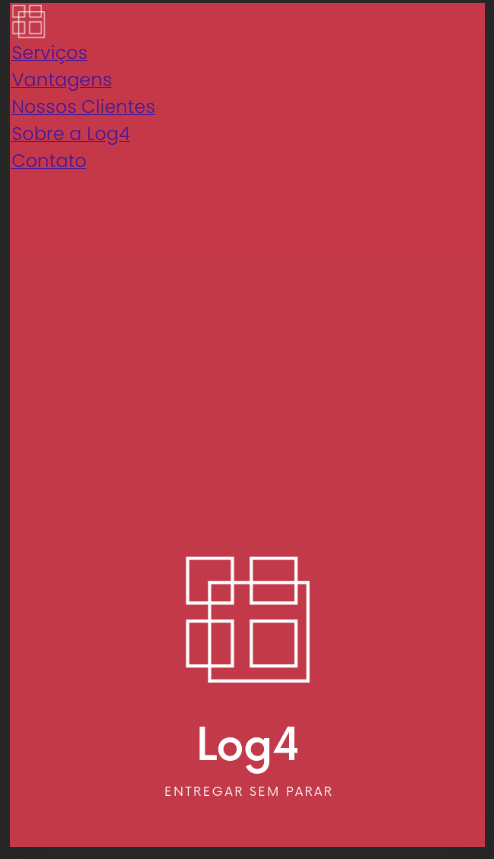
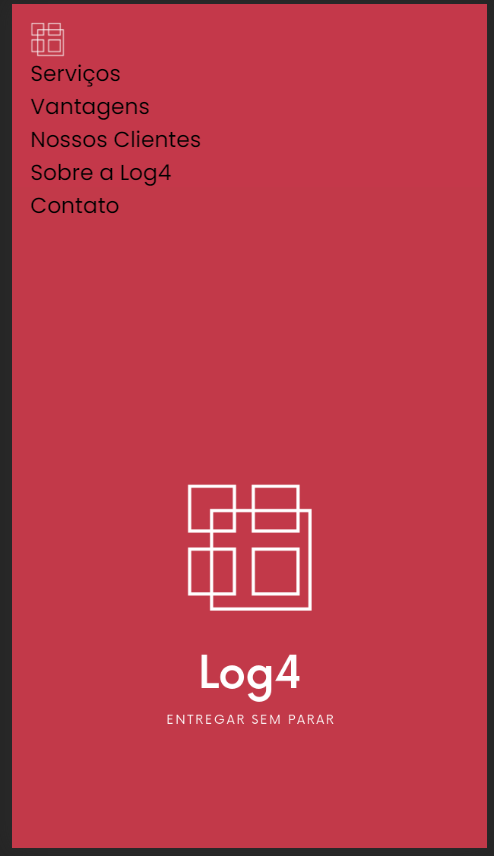
fix/fechando

Changed region(s): [[0.334, 0.5467, 0.668, 0.9416], [0.0, 0.0, 0.3947, 0.972], [0.0304, 0.0, 1.0, 1.0]]

diff --git a/projeto/css/header.css b/projeto/css/header.css
@@ -118,11 +118,13 @@ html{
     
     .navbar{
         /* background:#a79497;        */
+        background:#C4384A;  
         font-family: 'Poppins', sans-serif;
         height: 10em;  
         position: sticky;
         /* border: 1px solid black; */
-        border-radius: 10%;
+        padding-left: 1em;
+        padding-top: 1em;
         top: 0;     
     }
 
